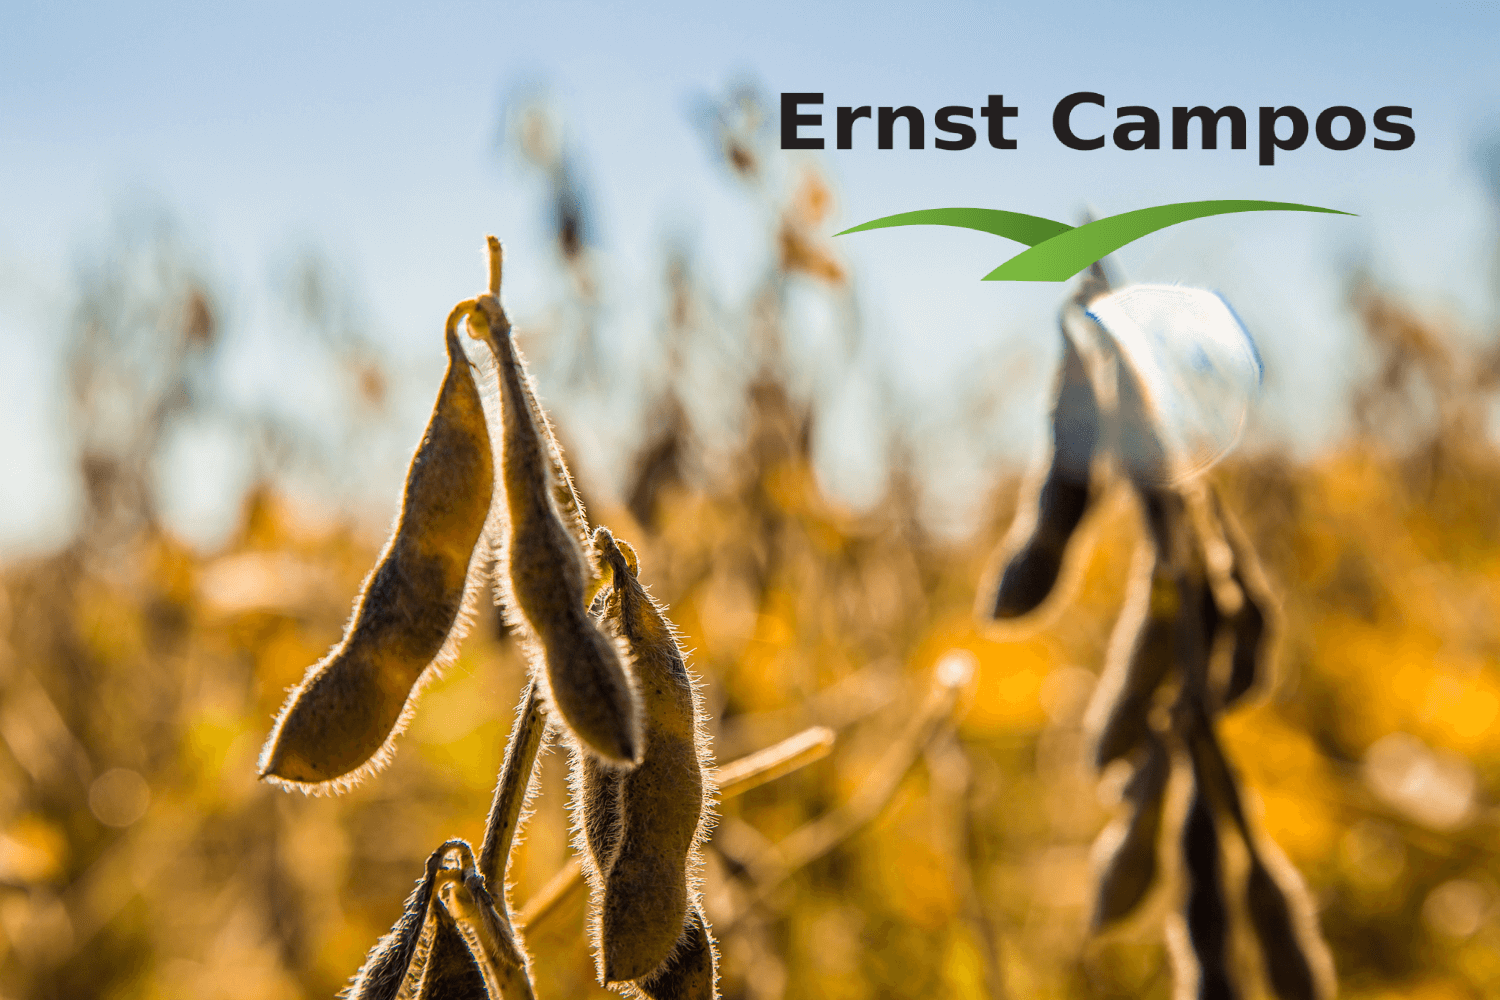
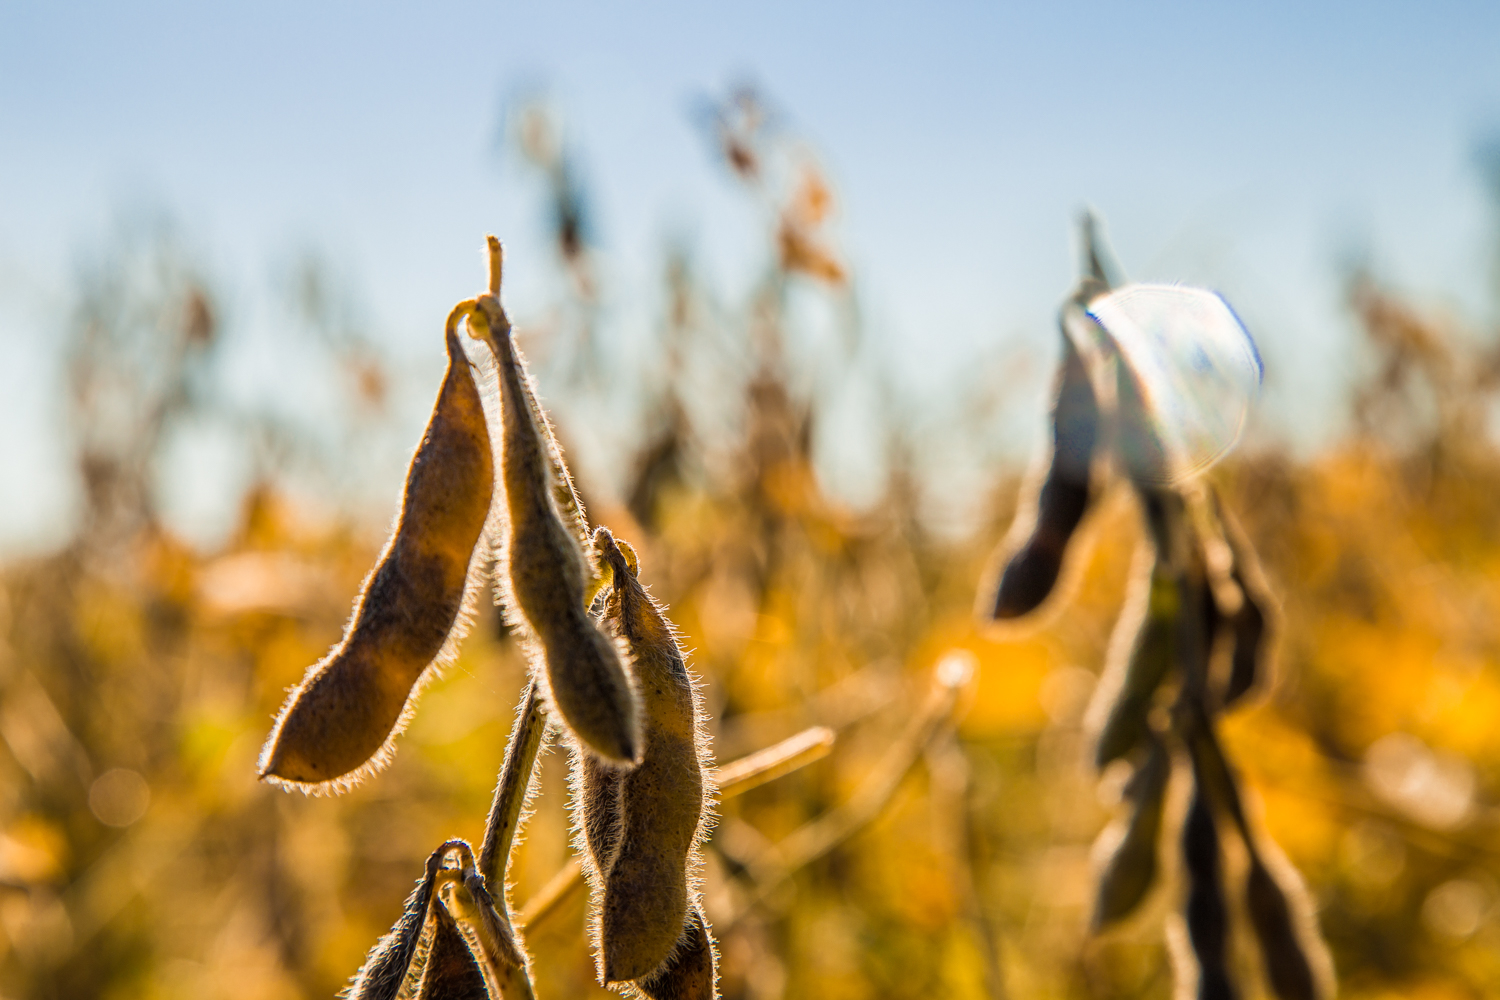
mejora de la primera seccion cuando abris el index

Changed region(s): [[0.5213, 0.093, 0.9507, 0.279], [0.9507, 0.682, 0.9813, 0.713]]

diff --git a/pagina_ernst_campos/index.html b/pagina_ernst_campos/index.html
@@ -2,18 +2,25 @@
 <html lang="es">
 	<head>
 		<title>Ernst Campos - Inicio</title>
+
 		<meta name="description" content=
 		"Ernst Campos y Estancias, es una empresa con mas de 20 años de trayectoria, que lleva adelante negocios agropecuarios en un marco de calidad total">
 		<meta name="descriptionkeywords" content="Campo, campos, negocios agropecarios, trayectoria agropecuaria, asesoramiento agro-economico, Tasaciones de campos, tasaciones, Estancias, inversiones agropecuarias, presupuestaciones, administracion rural, contratos agropecuarios">
-		
 		<meta charset="UTF-8">
 		<meta name="viewport" content="width=device-width, initial-scale=1.0">
+
 		<link rel="icon" type="image/png" href="imagenes/logo_icon.png">
+		
 		<link href="https://cdn.jsdelivr.net/npm/bootstrap@5.1.2/dist/css/bootstrap.min.css" rel="stylesheet" integrity="sha384-uWxY/CJNBR+1zjPWmfnSnVxwRheevXITnMqoEIeG1LJrdI0GlVs/9cVSyPYXdcSF" crossorigin="anonymous">
-			<link rel="stylesheet" type="text/css" href="estilo/style.css">
+	
+		<link rel="preconnect" href="https://fonts.googleapis.com">
+		<link rel="preconnect" href="https://fonts.gstatic.com" crossorigin>
+		<link href="https://fonts.googleapis.com/css2?family=Bodoni+Moda:wght@700&family=Newsreader:wght@500&display=swap" rel="stylesheet">
+		
 		<link rel="preconnect" href="https://fonts.googleapis.com">
 		<link rel="preconnect" href="https://fonts.gstatic.com" crossorigin>
 		<link href="https://fonts.googleapis.com/css2?family=Lato&display=swap" rel="stylesheet">
+
 		<link rel="stylesheet" type="text/css" href="estilo/style.css">
 	</head>
 <body>
@@ -24,7 +31,7 @@
 		<h1 class="h1Logo"><a href="index.html"><img class="h1LogoImg" src="imagenes/logo.png"></a></h1>
 		
 
-		<nav class="navbar navbar-expand-lg navbar-light  OwnNavStyle">
+		<nav class="navbar navbar-expand-lg navbar-light  NavStyle">
 		  <div class="container-fluid">
 		    <a class="navbar-brand" href="index.html">Ernst Campos & Estancias</a>
 		    <button class="navbar-toggler" type="button" data-bs-toggle="collapse" data-bs-target="#navbarNavAltMarkup" aria-controls="navbarNavAltMarkup" aria-expanded="false" aria-label="Toggle navigation">
@@ -76,7 +83,7 @@
 		<section class="IndexTopSection">
 
 				<img src="imagenes/soja_cocecha.png" alt="Soja_Para_Cocechar" class="ImagenTopSection">
-
+				<p class="TextTopSectionIndex">Ernst Campos </p>
 		</section>
 
 

diff --git a/pagina_ernst_campos/estilo/style.css b/pagina_ernst_campos/estilo/style.css
@@ -20,7 +20,9 @@ body{
 ---------ASIGNANDO ESTILOS AL HEADER------------
 ----------------------------------------------*/
 
-
+header{
+	z-index: 2;
+}
 
 .PosicionHeader{
 	position: fixed;
@@ -36,7 +38,7 @@ body{
 .navbar{
 	
 }
-@media screen and (max-width: 1024px){
+@media screen and (max-width: 900px){
 	.nav{
 		display: none;
 		width: 100vw;
@@ -45,7 +47,7 @@ body{
 	}
 
 }
-@media screen and (min-width: 1024px){
+@media screen and (min-width: 900px){
 	.navbar{
 		display: none;
 		width: 100vw;
@@ -85,22 +87,29 @@ body{
 	
 	width: 100vw;
 	background-color:#2D882D ;
+}.navbar-light .navbar-nav .nav-link{
+	color: #f6fff6;
+}
+.navbar-light .navbar-nav .nav-link:hover{
+	color: #bbbbbb;
+}
+.navbar-light .navbar-nav .nav-link.active{
+	color: #bbbbbb;
 }
 
+.navbar-light .navbar-brand {
+	color: #f6fff6;
+}
 
-
-
-
+.navbar-light .navbar-brand:hover {
+	color: #cccccc;
+}
 /*----------------------------------------------
 --------DIVISIÓN DEL HEADER Y EL MAIN-----------
 ----------------------------------------------*/
 /*
 ----------ESTILOS  COMPARTIDOS---------------
 */
-
-.MainGeneral{
-
-}
 
 .WhatsappLogo{
 	display: inline;
@@ -136,10 +145,26 @@ body{
 
 .ImagenTopSection{
 	
+
 	margin-bottom: -3vh;
-	width: 100%;
+	min-height: 100vh;
+	min-width: 100%;
+	overflow: cover;
 	
 
+}
+.TextTopSectionIndex{
+	font-family: 'Bodoni Moda', serif;
+	font-family: 'Newsreader', serif;
+	font-size: 7vh;
+	position: absolute;
+	top: 80vh;
+	left: 8vw;
+	color: #2D882D;
+	background-color: #f6fff6bb;
+	border-radius:20px ;
+	padding: 20px;;
+	
 }
 
 
